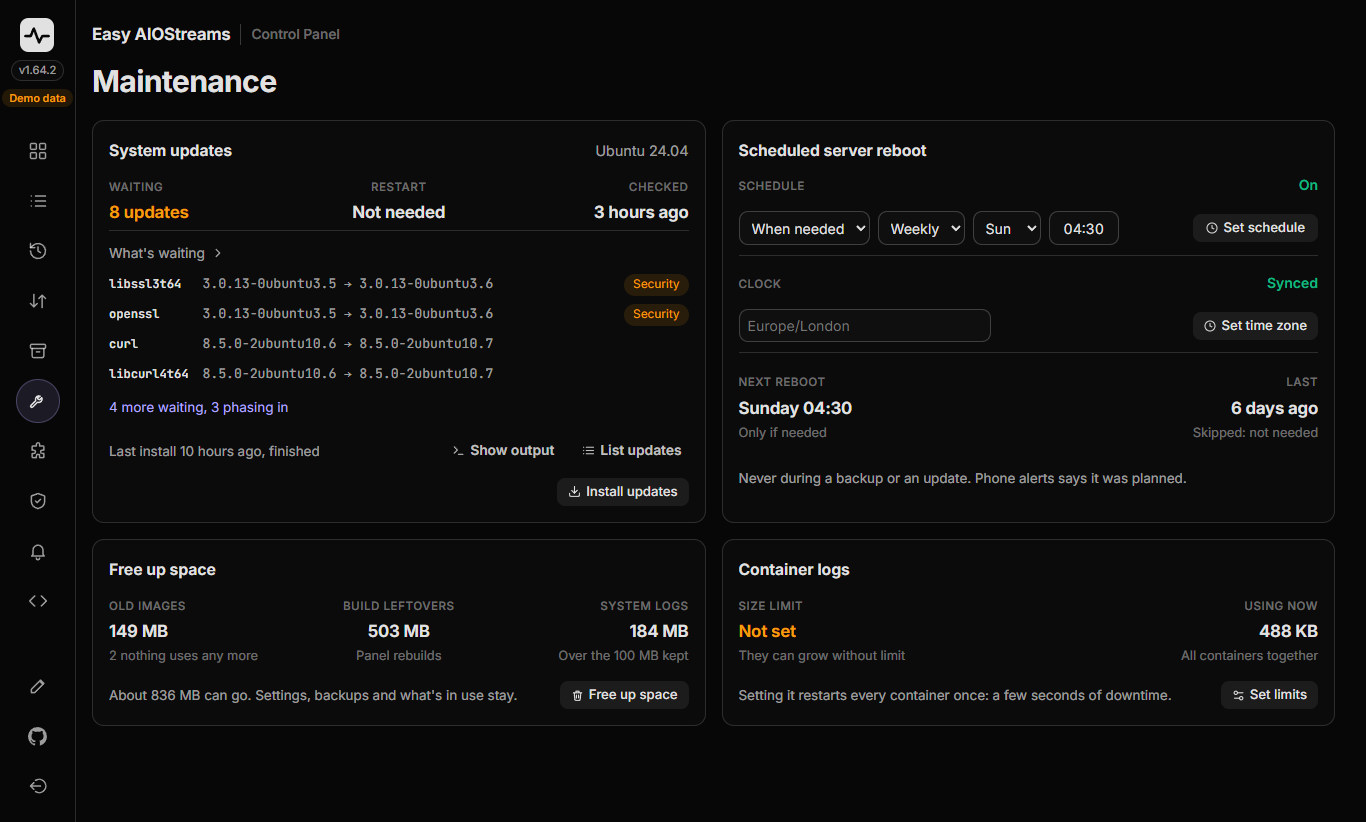
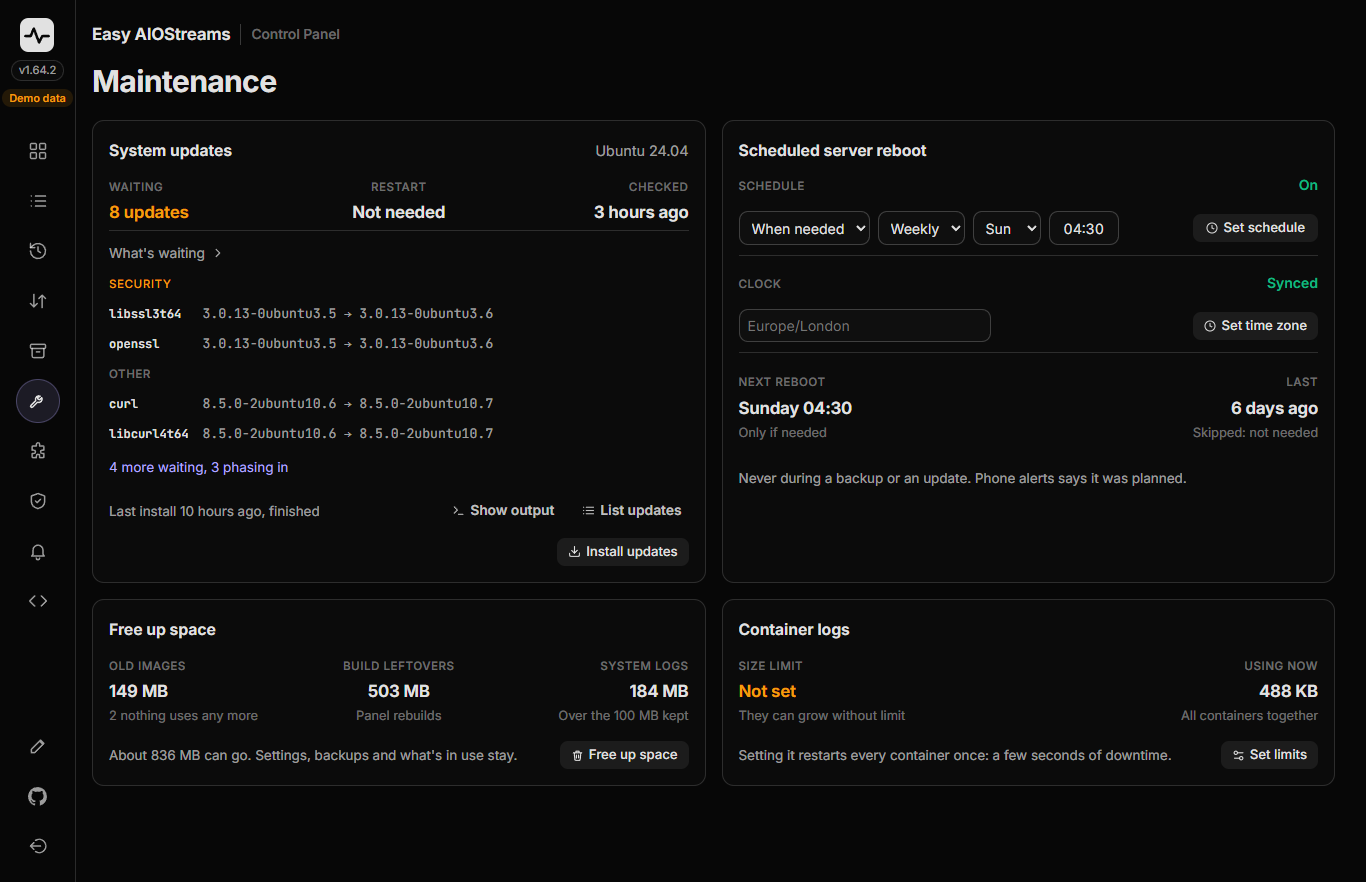
System updates: Security first, then the rest, in the drawer and the card
The drawer lists Security, Other updates and Phasing in as sections, text flush left with full-width separators, so no tag is needed on a row. The card's preview splits the same way under small labels. Maintenance screenshot retaken.

diff --git a/control-panel/web/js/releases.js b/control-panel/web/js/releases.js
@@ -182,20 +182,24 @@ export function openUpdates(u, installed) {
   $("#rel-sub").textContent = [now.length ? `${n(now.length, "update")} ready to install` : "Nothing ready to install",
     later.length ? `${later.length} more phasing in` : ""].filter(Boolean).join(", ") + (u.os ? `, on ${u.os}.` : ".");
   $("#rel-foot").hidden = true;
-  // Two groups fold, so a long one can be tucked away; a lone group is a plain heading, open, with no chevron
-  const alone = !(now.length && later.length);
-  const group = (title, items, open, note) => {
-    const head = [h("span", { class: "rel-tag", text: title }), h("span", { class: "rel-when cl-count", text: n(items.length, "package") })];
+  // Security updates first in a section of their own, then the rest, so no tag is needed on each row. Ready groups are plain
+  // headings (always open); Phasing in folds, unless it's all there is, and a lone group is a plain heading too.
+  const sec = now.filter((p) => p.security), rest = now.filter((p) => !p.security);
+  const groups = [];
+  if (sec.length) groups.push(["Security", sec, "sec"]);
+  if (rest.length) groups.push([sec.length ? "Other updates" : "Ready to install", rest, ""]);
+  const alone = groups.length + (later.length ? 1 : 0) === 1;
+  const group = (title, items, open, note, kind) => {
+    const head = [h("span", { class: "rel-tag" + (kind ? ` ${kind}` : ""), text: title }), h("span", { class: "rel-when cl-count", text: n(items.length, "package") })];
     const body = h("div", { class: "rel-body" }, note ? h("p", { class: "dim upd-note", text: note }) : null,
       h("ul", { class: "upd-list" }, ...items.map((p) => h("li", {},
         h("span", { class: "upd-name mono", text: p.name }),
-        p.security ? h("span", { class: "chip warn small-chip", text: "Security" }) : null,
         h("span", { class: "upd-ver mono dim", text: `${p.from} → ${p.to}` })))));
-    return alone ? h("div", { class: "rel" }, h("div", { class: "rel-head" }, ...head), body)
+    return open === null ? h("div", { class: "rel" }, h("div", { class: "rel-head" }, ...head), body)
       : h("details", { class: "rel", open }, h("summary", {}, ...head), body);
   };
-  if (now.length) list.append(group("Ready to install", now, true));
-  if (later.length) list.append(group("Phasing in", later, !now.length,
+  for (const [title, items, kind] of groups) list.append(group(title, items, null, null, kind));
+  if (later.length) list.append(group("Phasing in", later, alone ? null : false,
     "Ubuntu offers these to a few servers at a time. Install updates leaves them until this server's turn, usually within days."));
   if (!pk.length) list.append(h("p", { class: "dim", text: "Nothing is waiting." }));
   list.scrollTop = 0;

diff --git a/control-panel/web/css/app.css b/control-panel/web/css/app.css
@@ -2037,10 +2037,15 @@ a.btn .ext { margin-left: 0; vertical-align: 0; }
 .maint-card .card-head .card-corner { margin-left: auto; font-size: .9rem; }
 /* List updates: each package's name, then its versions under it, both on the left */
 .upd-list { list-style: none; margin: 0; padding: 0; }
-.upd-list li { display: flex; flex-wrap: wrap; align-items: baseline; gap: 4px 10px; padding: 7px 0; border-top: 1px solid var(--line-soft); }
-.upd-list li:first-child { border-top: 0; }
-.upd-name { font-weight: 600; }
-.upd-ver { flex-basis: 100%; font-size: .82rem; overflow-wrap: anywhere; }
+/* The drawer's rows: the name, then its version, flush left; a line above each that runs the full width of the card.
+   Security updates are a section of their own, so no tag is needed on a row. */
+.rel-body .upd-list { list-style: none; margin: 0 -16px; padding: 0; }
+.upd-list li { display: block; margin: 0; padding: 9px 16px; border-top: 1px solid var(--line-soft); }
+.upd-list .upd-name { display: block; font-weight: 600; overflow-wrap: anywhere; }
+.upd-list .upd-ver { display: block; margin-top: 2px; font-size: .82rem; overflow-wrap: anywhere; }
+.upd-list.upd-done li:first-child { border-top: 0; }
+.rel-body:has(> .upd-list:last-child) { padding-bottom: 4px; }
+.rel-tag.sec { color: var(--warn); }
 .upd-note { margin: 0 0 6px; font-size: .86rem; }
 @media (max-width: 720px) {
   /* Two buttons on a Maintenance card (Install updates, List updates) share the row on a phone */
@@ -2096,8 +2101,11 @@ a.btn .ext { margin-left: 0; vertical-align: 0; }
 }
 /* System updates on a desktop: the first few waiting, under the values */
 .upd-peek { border-top: 1px solid var(--line-soft); margin-top: 4px; padding: 12px 0 4px; }
-.upd-peek-grid { display: grid; grid-template-columns: max-content minmax(0, 1fr) max-content; grid-auto-rows: 26px; align-items: center; gap: 4px 14px; }
+.upd-peek-grid { display: grid; grid-template-columns: max-content minmax(0, 1fr); grid-auto-rows: 26px; align-items: center; gap: 4px 14px; }
 .upd-peek .upd-name { font-weight: 600; }
+.upd-peek .upd-peek-label { grid-column: 1 / -1; align-self: end; }
+.upd-peek .upd-peek-label:not(:first-child) { margin-top: 6px; }
+.upd-peek .upd-peek-label.sec { color: var(--warn); }
 .upd-peek .upd-ver { font-size: .82rem; white-space: nowrap; overflow: hidden; text-overflow: ellipsis; }
 .upd-peek .upd-more { margin-top: 10px; font-size: .84rem; }
 .upd-peek.empty p { margin: 0; font-size: .88rem; }

diff --git a/control-panel/web/js/maint.js b/control-panel/web/js/maint.js
@@ -109,11 +109,17 @@ function updates(m) {
 // updates, as List updates shows them, or with nothing waiting, what the last install brought.
 const PEEK = 4;
 function peekRows(list) {
-  return h("div", { class: "upd-peek-grid" }, ...list.slice(0, PEEK).flatMap((p) => [
+  const shown = list.slice(0, PEEK);
+  const sec = shown.filter((p) => p.security), rest = shown.filter((p) => !p.security);
+  const row = (p) => [
     h("span", { class: "upd-name mono", text: p.name }),
-    h("span", { class: "upd-ver mono dim", title: `${p.from} → ${p.to}`, text: `${p.from} → ${p.to}` }),
-    // Last, at the card's right edge, so a row without one has no gap left where its chip would be
-    h("span", { class: "upd-flag" }, p.security ? h("span", { class: "chip warn small-chip", text: "Security" }) : null)]));
+    h("span", { class: "upd-ver mono dim", title: `${p.from} → ${p.to}`, text: `${p.from} → ${p.to}` })];
+  // Security updates under a label of their own (and the others under "Other" when both are shown), as in the drawer,
+  // so a row needs no tag
+  const label = (text, kind) => h("div", { class: "ver-label upd-peek-label" + (kind ? ` ${kind}` : ""), text });
+  return h("div", { class: "upd-peek-grid" },
+    ...(sec.length ? [label("Security", "sec")] : []), ...sec.flatMap(row),
+    ...(sec.length && rest.length ? [label("Other")] : []), ...rest.flatMap(row));
 }
 // The line that opens the full list in a drawer, as Show output does: a button with a right chevron. On a phone
 // it is all there is (the rows would take half the screen); on a desktop it heads the preview.

diff --git a/CHANGELOG.md b/CHANGELOG.md
@@ -4,7 +4,7 @@ Notable changes to easy-aiostreams, newest first. Control panel versions are in 
 
 ## 22 November 2026
 
-- System updates no longer shows the lines under the update count and Checked, on computers and phones, since the list under the figures shows the same, and the line above the list (What's waiting, or Last installed) opens the full list in the drawer, as Show output does, with a lone group in that drawer shown as a plain heading instead of a fold, and the Security tag on the card's preview is at the right edge of its row, after the version; on phones that line replaces the folded rows. The Maintenance screenshot in the guides is retaken. (Panel 1.64.2)
+- System updates no longer shows the lines under the update count and Checked, on computers and phones, since the list under the figures shows the same, and the line above the list (What's waiting, or Last installed) opens the full list in the drawer, as Show output does, with the drawer's list split into Security first, then Other updates, then Phasing in (no tag on each row, a lone group a plain heading instead of a fold), and the card's preview split the same way under small Security and Other labels; on phones that line replaces the folded rows. The Maintenance screenshot in the guides is retaken. (Panel 1.64.2)
 - On a computer, This server's fourth column (Up for and HTTPS certificates) is right-aligned to the card's right edge under Reboot server, on Scripts an add-on that isn't downloaded has its Copy at the right edge of Optional add-ons, and a new install's Overview lists This server right after AIOStreams, before the add-ons (a layout you saved keeps its order). (Panel 1.64.2)
 - On a computer, Last on Scheduled server reboot and Using now on Container logs sit at the right edge of their cards, System updates and Free up space spread their three figures across their cards, and Set schedule on Scheduled backups is in the card's bottom right corner. The Maintenance and Backup & Restore screenshots in the guides are retaken. (Panel 1.64.1, [#216](https://github.com/alpinezx/easy-aiostreams/pull/216))
 - **Docs:** The Logs and Activity screenshots in the control panel guides are retaken for panel 1.64.0. ([#215](https://github.com/alpinezx/easy-aiostreams/pull/215))
